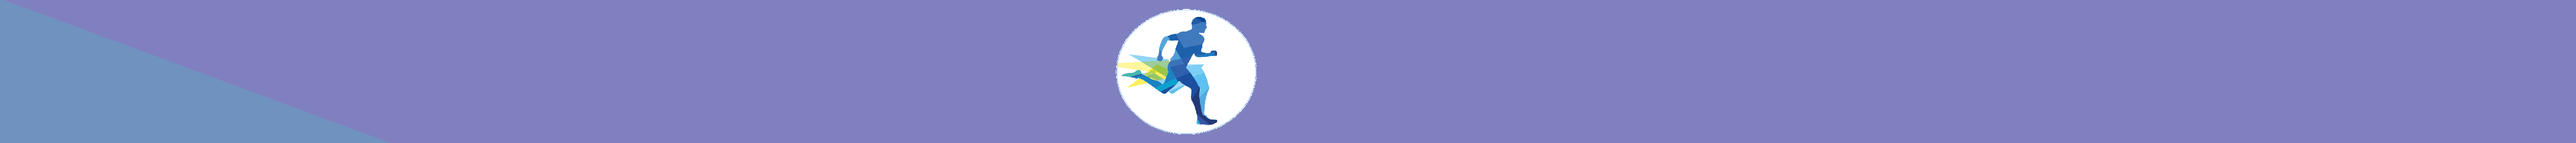
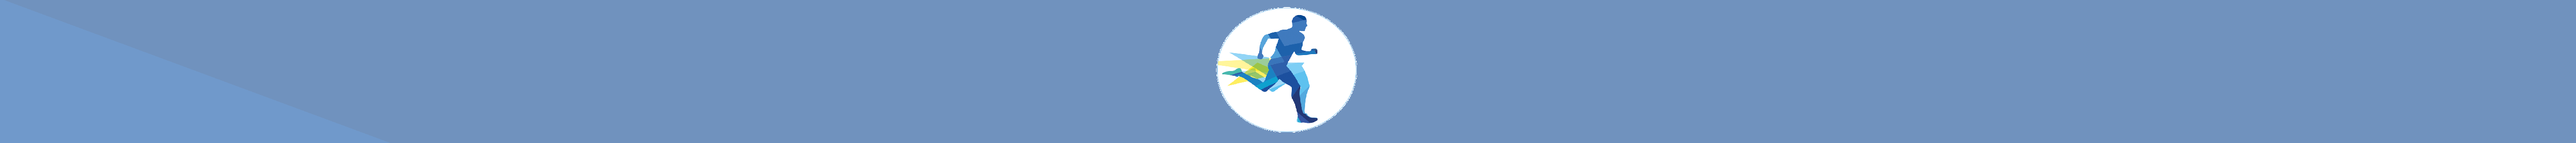
Header

Changed region(s): [[0.4062, 0.0592, 0.5312, 0.9474]]

diff --git a/style/newTemplate.css b/style/newTemplate.css
@@ -1,0 +1,152 @@
+body {
+    margin:0;
+    font-family:Arial;
+  }
+  
+  .topnav {
+    overflow: hidden;
+    background-color: #c3dff7;
+    display: flex;
+    justify-content: space-between;
+    align-items: center;
+    margin-top:-5px;
+    height: 65px;
+  }
+  
+  .nav {
+    width: 20%;
+    height: 70px;
+    border-left: 1px solid black;
+    display: flex;
+    justify-content: center;
+  }
+  
+  .infinity {
+    width: 20%;
+    height: 70px;
+    display: flex;
+    justify-content: center;
+  }
+  
+  .nav a {
+    color: #0d5679;
+    text-decoration: none;
+    margin-top: auto;
+    margin-bottom: auto;
+    text-align: center;
+    height: 70px;
+    margin-left: auto;
+    margin-right: auto;
+    width: 100%;
+    padding-top: 25px;
+    font-size: 16px;
+  }
+  
+  .infinity a {
+    color: #0d5679;
+    text-decoration: none;
+    margin-top: auto;
+    margin-bottom: auto;
+    text-align: center;
+    height: 70px;
+    margin-left: auto;
+    margin-right: auto;
+    width: 100%;
+    padding-top: 12px;
+  }
+  
+  .image-logo { 
+    
+    max-height: 4.3rem;
+    height: 4.3rem;
+  }
+  
+  .topnav .icon {
+    display: none;
+  }
+  
+  .drop {
+    width: 100%;
+    height: 70px;
+    display: flex;
+    justify-content: center;
+  }
+  
+  .dropdown {
+    float: left;
+    overflow: hidden;
+    width: 20%;
+    border-left: 1px solid black;
+  }
+  
+  .dropdown .dropbtn {    
+    border: none;
+    background-color: inherit;
+  }
+  
+  .dropdown-content {
+    display: none;
+    position: absolute;
+    background-color: #f9f9f9;
+    min-width: 160px;
+    box-shadow: 0px 8px 16px 0px rgba(0,0,0,0.2);
+    z-index: 1;
+  }
+  
+  .dropdown-content a {
+    float: none;
+    color: black;
+    padding: 12px 16px;
+    text-decoration: none;
+    display: block;
+    text-align: left;
+    width: auto;
+  }
+  
+  .topnav a:hover, .dropdown:hover  {
+    background-color:  #83b3dc;
+  }
+  
+  .nav a:hover {
+    background-color: #83b3dc;
+  }
+  
+  .dropdown-content a:hover {
+    background-color: #c3dff7;
+    color: black;
+  }
+  
+  .dropdown:hover .dropdown-content {
+    display: block;
+  }
+  
+  @media screen and (max-width: 600px) {
+    .topnav a:not(:first-child), .dropdown .dropbtn {
+      display: none;
+    }
+    .topnav a.icon {
+      float: right;
+      display: block;
+    }
+  }
+  
+  @media screen and (max-width: 700px) {
+    .topnav.responsive {position: relative;}
+    .topnav.responsive .icon {
+      position: absolute;
+      right: 0;
+      top: 0;
+    }
+    .topnav.responsive a {
+      float: none;
+      display: block;
+      text-align: left;
+    }
+    .topnav.responsive .dropdown {float: none;}
+    .topnav.responsive .dropdown-content {position: relative;}
+    .topnav.responsive .dropdown .dropbtn {
+      display: block;
+      width: 100%;
+      text-align: left;
+    }
+  }

diff --git a/style/TemplateAcceuil.css b/style/TemplateAcceuil.css
@@ -42,7 +42,7 @@
 }
 
 body{
-  
+    background: url("../assets/images/run.jpg") no-repeat center center fixed;
     background-size: cover;
     font-family: 'Droid Serif', serif;
   }

diff --git a/view/pages/Component/newHeader.php b/view/pages/Component/newHeader.php
@@ -1,0 +1,51 @@
+<!DOCTYPE html>
+<html>
+<head>
+    <meta name="viewport" content="width=device-width, initial-scale=1">
+    <link rel="stylesheet" href="../style/newTemplate.css" />
+    </head>
+
+<header>
+<img  src="../assets/images/banniere.png" style="width:100%; margin-top:0px;">
+  <div class="topnav" id="myTopnav">
+    <div class="infinity"><a href="#home"><img class="image-logo" src="../assets/images/infinite-mesures.png"></a></div>
+    <div  class="nav"><a href="./" class="navigation-element">Forum</a></div>
+    <div class="nav"><a href="./?page=contact" >Contact</a></div>
+    
+    <div class="nav"><a href="./?page=faq">FAQ</a></div>
+    <div class="nav"><a href="./?page=propos">A Propos</a></div>
+   
+    <div class="dropdown">
+      <div class="drop"><button onclick="myFunction()" class="dropbtn"><img class="image-logo" src="../assets/images/logo_user.png"></div>
+        <i class="fa fa-caret-down"></i>
+      </button>
+      <div class="dropdown-content">
+        <a href="#">Connexion</a>
+        <a href="#">Inscription</a>
+      </div>
+    </div> 
+  </div>
+  <script>
+    function myFunction() {
+    document.getElementById("myDropdown").classList.toggle("show");
+  }
+
+  // Close the dropdown if the user clicks outside of it
+  window.onclick = function(event) {
+    if (!event.target.matches('.dropbtn')) {
+      var dropdowns = document.getElementsByClassName("dropdown-content");
+      var i;
+      for (i = 0; i < dropdowns.length; i++) {
+        var openDropdown = dropdowns[i];
+        if (openDropdown.classList.contains('show')) {
+          openDropdown.classList.remove('show');
+        }
+      }
+    }
+  }
+  </script>
+</header>
+
+</html>
+
+  

diff --git a/view/pages/Contact.php b/view/pages/Contact.php
@@ -7,13 +7,11 @@
     <link rel="stylesheet" type="text/css" href="../style/Template.css" />
     <script type="text/javascript" src="../JavaScript/ValidateMail.js"></script>
 </head>
-<header>
-    <?php include("./Component/Header.php"); ?>
-</header>
+
 <body>
     <div class="main-container">
         <div>
-            <h2 class=titre"> Contact </h2>
+            <h2 class="titre"> Contact </h2>
         </div>
         <div class="form-container">
             <form name="formContact" action="../controller/mail_handler.php" method="post" onsubmit="return validateContactForm()">

diff --git a/view/pages/Authentification/enregistrement.php b/view/pages/Authentification/enregistrement.php
@@ -10,7 +10,7 @@
         <title>Runnest</title>
     </head>
   <header>
-  <?php include("./../../pages/Component/Header.php"); ?>
+  <?php include("./../../pages/Component/newHeader.php"); ?>
   </header>
     <body>
     

diff --git a/view/pages/Authentification/recuperationCompte.php b/view/pages/Authentification/recuperationCompte.php
@@ -7,7 +7,7 @@
         <title>Runnest</title>
     </head>
   <header>
-  <?php include("./../../pages/Component/Header.php"); ?>
+  <?php include("./../../pages/Component/newHeader.php"); ?>
   </header>
     <body>
 

diff --git a/view/pages/CreationProgramForm.php b/view/pages/CreationProgramForm.php
@@ -9,7 +9,7 @@
     </head>
 
     <header>
-      <?php include("./Component/Header.php"); ?>
+      <?php include("./Component/newHeader.php"); ?>
     </header>
 
     <body>

diff --git a/controller/controller.php b/controller/controller.php
@@ -1,6 +1,6 @@
 <?php 
 
-require('./pages/Component/Header.php');
+require('./pages/Component/newHeader.php');
 
 function accueil() {
     require('./pages/Accueil.php');

diff --git a/view/pages/pagecoureur.php b/view/pages/pagecoureur.php
@@ -6,7 +6,7 @@
 </head>
 
 <header>
-    <?php include("./Component/Header.php"); ?>
+    <?php include("./Component/newHeader.php"); ?>
 </header>
 
 <body> 

diff --git a/view/pages/programe.php b/view/pages/programe.php
@@ -6,7 +6,7 @@
 </head>
 
 <header>
-    <?php include("./Component/Header.php"); ?>
+    <?php include("./Component/newHeader.php"); ?>
 </header>
 
 <body> 

diff --git a/pages/utilisateur.php b/pages/utilisateur.php
@@ -25,7 +25,7 @@
 
 
 <header>
-    <?php include("./Component/Header.php"); ?>
+    <?php include("./Component/newHeader.php"); ?>
 </header>
 
 <body>

diff --git a/view/pages/Faq.php b/view/pages/Faq.php
@@ -9,9 +9,7 @@
 </head>
 
 
-<header>
-    <?php include("./Component/Header.php"); ?>
-</header>
+
 
 <body>
     <div class="container-navigation">
